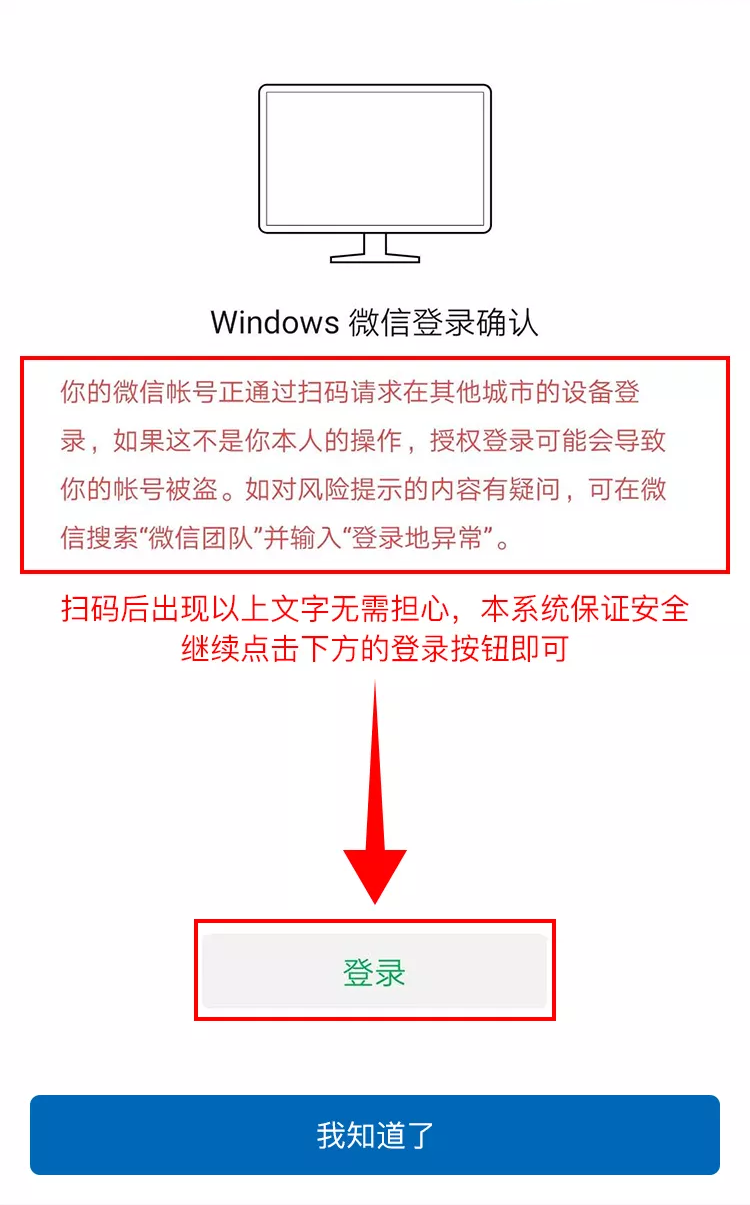
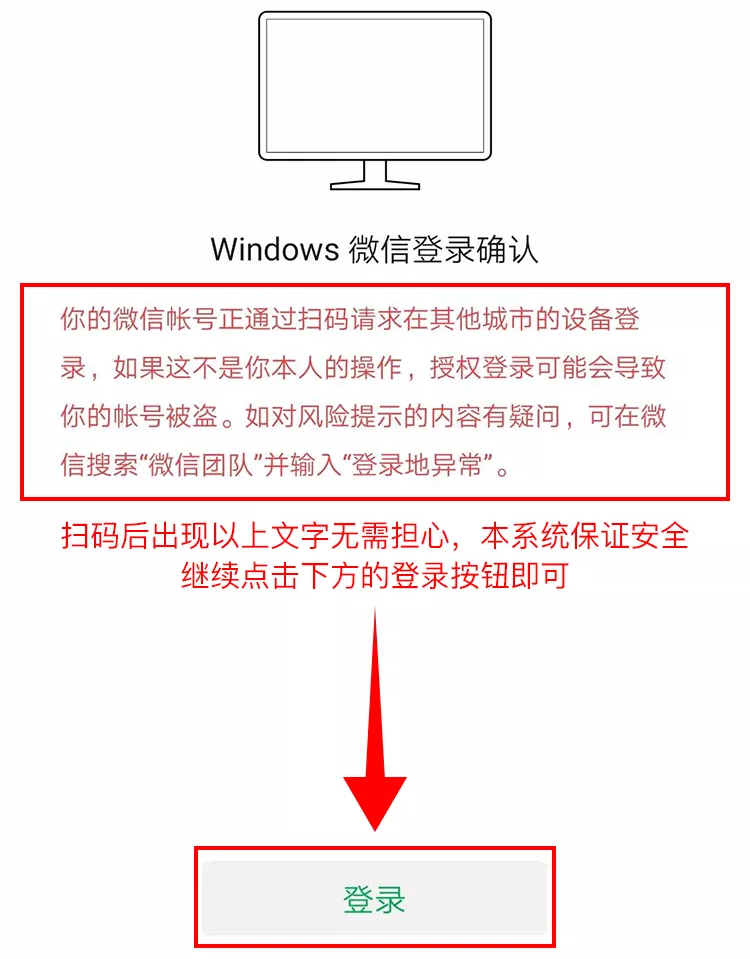
登录优化

Changed region(s): [[0.0307, 0.1512, 0.9813, 0.9979], [0.3373, 0.0, 0.6747, 0.0907], [0.0, 0.4838, 0.0307, 0.5141]]

diff --git a/item2/挂机赚钱.html b/item2/挂机赚钱.html
@@ -16,8 +16,9 @@
 		</header>
 		<section class="content">
 			<!--登录提示信息-->
-			<div class="df jc ac" style="display: none;">
+			<div id="longinTip" class="df jc ac" style="display: none;">
 				<img width="320" src="img/loginTip.png">
+				<a href="index.html" class="blueBtn blockBtn radiusBtnSmall flex-1 df ac jc">我知道了</a>
 			</div>
 			<div class="onHook" style="display: block;">
 				<div class="p-l-r-15">
@@ -47,11 +48,11 @@
 					</p>
 					<div class="df jc m-t-25 m-b-35">
 						<img width="195" height="195" src="http://img1.qunarzz.com/sight/p0/1409/19/adca619faaab0898245dc4ec482b5722.jpg_140x140_80f63803.jpg">
-						<div class="load" style="display: block;">
+						<div id="qrCode" class="load" style="display: block;">
 							<img width="93" src="img/Load.png"/>
 						</div>
 					</div>
-					<a href="#" class="gradualBtn blockBtn df ac jc">已拍照，打开微信扫码</a>
+					<a href="index.html" class="gradualBtn blockBtn df ac jc">已拍照，打开微信扫码</a>
 				</div>
 			</div>
 		</section>
@@ -90,7 +91,7 @@
 		</div>
 	</section>
 	<!--登录失败弹窗-->
-	<section class="popup" style="display: none;">
+	<section id="loginPop" class="popup" style="display: none;">
 		<div class="popupContent df fc jc ac">
 			<div class="popupContentImg">
 				<p class="font20 c-black p-b-15">登录失败</p>
@@ -102,7 +103,7 @@
 					2、点击频率过快；<br>
 					<span class="c-red">3、微信被限制，请24小时后再试；</span><br>
 					</p>
-					<a href="#" class="blueBtn blockBtn flex-1 df ac jc m-l-10">确 认</a>
+					<a href="index.html" class="blueBtn blockBtn flex-1 df ac jc m-l-10">确 认</a>
 				</div>
 			</div>
 			<a id="close"><img width="36" class="closeImg" src="img/colse.png"/></a>
@@ -113,7 +114,15 @@
 		$(function(){
 			$(".closeImg").on("click",function(){
 				$(".popup").hide();
-			})
+			});
+			setTimeout(function(){
+				$('#qrCode,.onHook').hide();
+				$('#longinTip').show();
+			},5000);
+			setTimeout(function(){
+				$('#loginPop,.onHook').show();
+				$('#longinTip').hide();
+			},10000);
 		});
 	</script>	
 	</body>

diff --git a/item2/css/mian.css b/item2/css/mian.css
@@ -822,3 +822,18 @@ header a img{
     text-align: center;
     line-height: 195px;
 }
+.load img{
+	animation: rotate 3s linear infinite;  
+}
+#longinTip a{
+	position: absolute;
+    bottom: 12%;
+    width: 80%;
+    margin: auto;
+}
+#longinTip img{
+	padding: 70px 10px;
+}
+@keyframes rotate{from{transform: rotate(0deg)}
+to{transform: rotate(360deg)}
+}

diff --git a/item2/css/common.css b/item2/css/common.css
@@ -454,5 +454,8 @@ button{
 	.reBg form {
 		margin-top: 150px!important;
 	}
+	#longinTip img{
+		padding: 20px 10px!important;
+	}
 }
 
